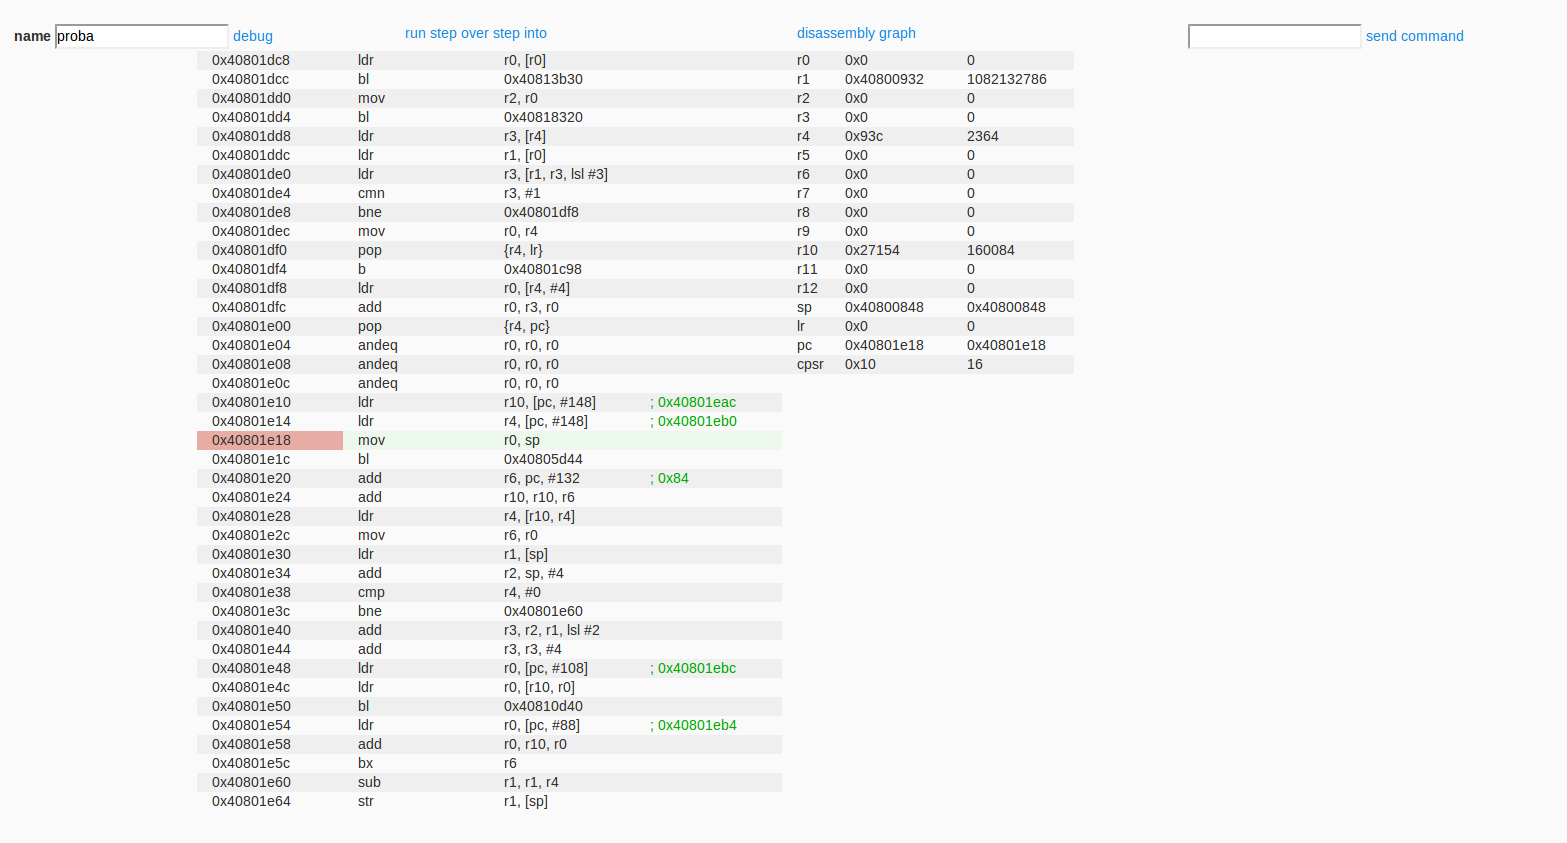
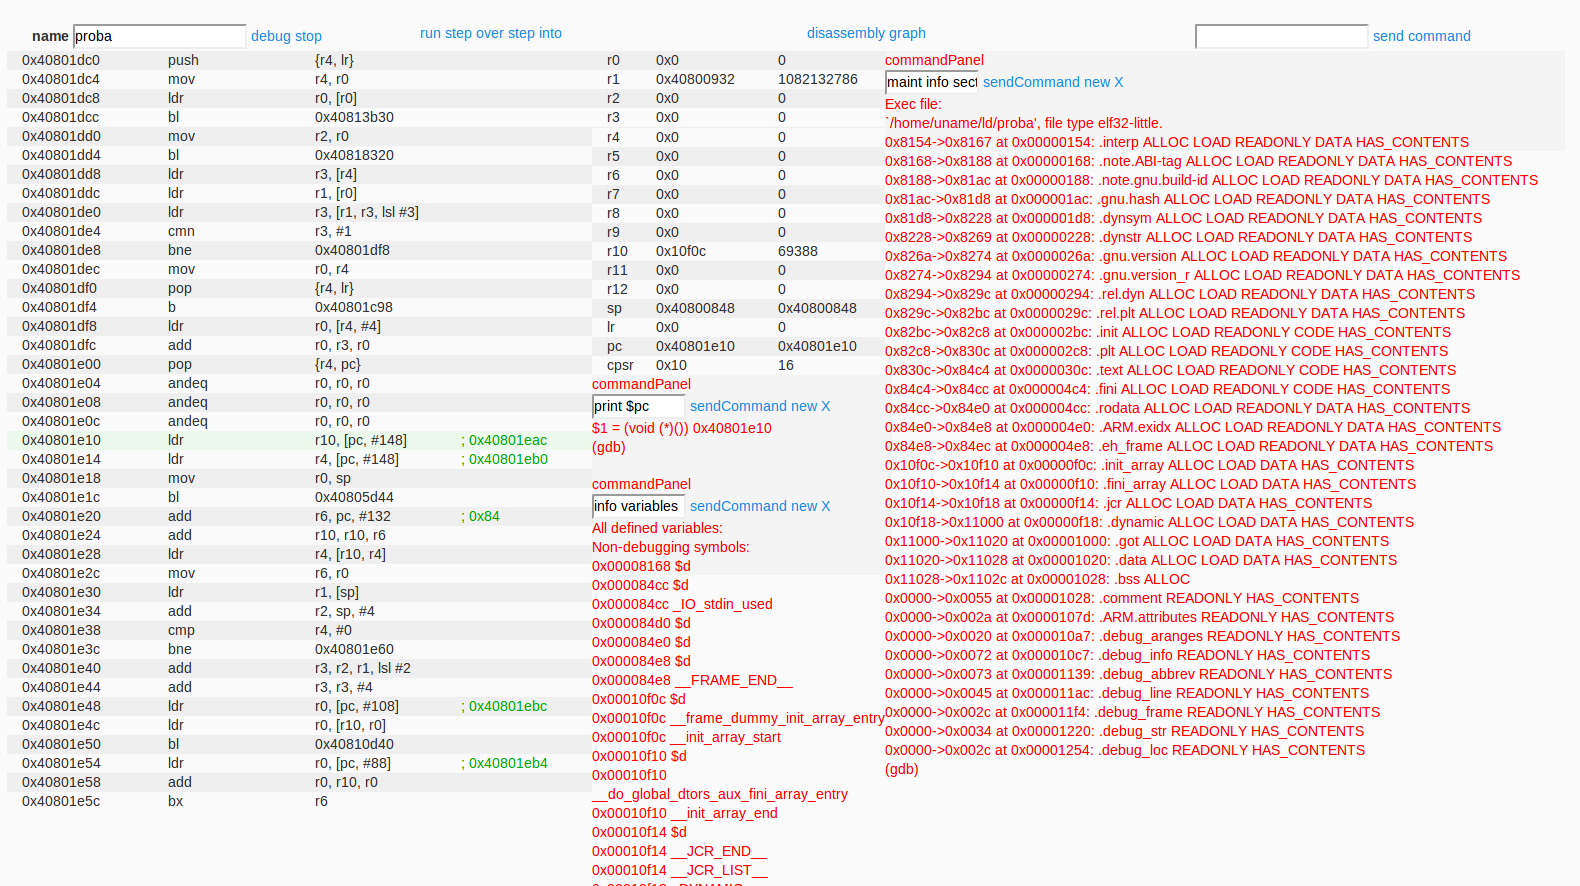
command panels

diff --git a/app/scripts/controllers/main.js b/app/scripts/controllers/main.js
@@ -21,278 +21,6 @@ function linkify( selector ) {
 }
 
 var socket;
-angular.module('ldApp').directive('draggable', function() {
-  var ddo = {
-    link: function(scope,iElement,iAttrs) {
-      $(iElement).draggable({
-        snap:true,
-        grid:[20,20]
-      });
-
-    }
-  };
-  return ddo;
-});
-angular.module('ldApp').directive('resizable', function() {
-  var ddo = {
-    link: function(scope,iElement,iAttrs) {
-      $(iElement).resizable({
-        
-        grid:[20,20]
-      });
-
-    }
-  };
-  return ddo;
-});
-
-angular.module('ldApp').factory('Data',function(){
-  //gdb service
-  var obj={
-    data:[],
-    sharedData:{
-      result:[],
-      resultRaw:[],
-      registers:'',
-      breakpoints:[]
-    },
-    sock:socket
-  };
-
-  obj.callbackQueue=[];
-
-  function dissasemblyCallback(){
-    obj.sharedData.dissasembly= obj.sharedData.result.slice(0,-1);
-    var b = [];
-    b.push([]);
-    var basicBlocks=[];
-    basicBlocks.push([]);
-
-    var disasArr = [];
-    var disasObjArr = [];
-    //bbBoundaryArr.push({from:0,to:0});
-    var boundaries=[];
-    var branchPreviousInst=false;
-
-    var branchArray=[];
-    _.each(obj.sharedData.dissasembly,function(value){
-      //detects disassembly line with => in it
-      var disasLineCurrent=/^\=\>\s*(.*):\s+(\w+)([^;]*)(;(.*))?$/;
-      //detects line from gdb output
-      var disasLine=/^\s*(.*):\s+(\w+)([^;]*)(;(.*))?$/;
-
-      var splitedInstruction;
-      var typeOfReg ;
-      var instObj ;
-      if(value.match(disasLineCurrent)){
-        splitedInstruction =  value.split(disasLineCurrent);
-        typeOfReg=1;
-        instObj ={
-          current:true,
-          address: splitedInstruction[1],
-          opcode:  splitedInstruction[2],
-          operands:splitedInstruction[3],
-          comment: splitedInstruction[4],
-        };
-      }else if(value.match(disasLine)){
-        splitedInstruction =  value.split(disasLine);
-        typeOfReg=2;
-        instObj ={
-          current:false,
-          address: splitedInstruction[1],
-          opcode:  splitedInstruction[2],
-          operands:splitedInstruction[3],
-          comment: splitedInstruction[4],
-          uppperBoundary:false,//true if it is upper boundary of basic block
-          downBoundary:false,//bottom boundary
-        };
-      }
-
-      if(splitedInstruction){
-        if (branchPreviousInst){
-          instObj.uppperBoundary=true;
-          boundaries.push(instObj);
-          branchPreviousInst=false;
-        }
-        if(splitedInstruction[2].match(/^b.*/)){
-          branchPreviousInst=true;
-          instObj.bottomBoundary=true;
-          boundaries.push(instObj);
-          branchArray.push(instObj);
-        }else{
-          if(boundaries.length===0){
-            instObj.uppperBoundary=true;
-            boundaries.push(instObj);
-          }
-        }
-        disasArr.push(splitedInstruction);
-        disasObjArr.push(instObj);
-
-      }else{
-
-      }
-
-
-    });
-
-
-    obj.sharedData.disasArr=disasObjArr;
-
-    //find instructions that are jumped on and put it in boundaries
-    _.each(branchArray,function(value){
-      var elem = _.findWhere(disasObjArr,{'address':value.operands.substring(1)});
-      if(elem){
-        var indexDest = _.indexOf(boundaries,elem);
-        if(indexDest===-1){
-          elem.up=true;
-          boundaries.push(elem);
-        }
-      }
-
-    });
-    var boundariesSorted=_.sortBy(boundaries,'address');
-    var boundaryArrC=0;
-    _.each(disasObjArr,function(value){
-      if(value===boundariesSorted[boundaryArrC]){
-        if(value.uppperBoundary===true){
-          basicBlocks.push([]);
-          basicBlocks[basicBlocks.length-1].push(value);
-
-        }
-        if(value.bottomBoundary===true){
-          basicBlocks[basicBlocks.length-1].push(value);
-        }
-        boundaryArrC+=1;
-
-      }else{
-        basicBlocks[basicBlocks.length-1].push(value);
-      }
-    });
-
-    obj.data=basicBlocks;
-
-  }
-  obj.getDissasembly = function getDissasembly () {
-
-    obj.callbackQueue.push(dissasemblyCallback);
-    socket.emit('command', { ptyPayload: 'disas $pc-80,$pc+80' });
-  };
-  obj.getRegisterInfo = function (){
-    obj.callbackQueue.push(function getRegInfoC(){
-      obj.sharedData.registers = obj.sharedData.result.slice(0,-1).map(function(value){
-        var s=value.split(/(\w+)\s*(\w+)\s*(\w+)/);
-        return {
-          name:s[1],
-          value1:s[2],
-          value2:s[3],
-
-        };
-      });
-    });
-
-    socket.emit('command', { ptyPayload: 'info registers' });
-  };
-  obj.setBreakpoint = function(address) {
-    obj.callbackQueue.push(function setBreakpointC() {});
-    
-    socket.emit('command',{
-      ptyPayload: 'break *' + address       
-    });
-    
-  };
-  obj.removeBreakpoint = function(address) {
-    obj.callbackQueue.push(function removeBreakpointC() {});
-    socket.emit('command',{
-      ptyPayload : 'clear *' + address
-    });
-  
-  };
-  obj.infoBreakpoints = function(){
-    obj.callbackQueue.push(function infoBreakpointsC() {
-      if(obj.sharedData.result[0].match(/^No.*/)){
-      return;
-      }
-      obj.sharedData.breakpoints = obj.sharedData.result.slice(1).map(function(value) {
-        var split = value.split(/\s*(\w+)\s*(\w+)\s*(\w+)\s*(\w+)\s*(\w*)\s*/);
-        return{
-          num:split[1],
-          type:split[2],
-          disp:split[3],
-          enb:split[4],
-          address:split[5],
-          what:split[6]
-        };
-      });
-      if(obj.sharedData.disasArr){
-        _.each(obj.sharedData.breakpoints,function(value){
-          var elem = _.findWhere(obj.sharedData.disasArr,{'address':value.address});
-          if(elem){
-            var indexDest = _.indexOf(obj.sharedData.disasArr,elem);
-            if(indexDest!==-1){
-              elem.hasBreakpoint=true;
-            }
-          }
-
-    });
-      
-      }
-    });
-    socket.emit('command',{
-      ptyPayload : 'info break'
-    });
-  };
-  obj.startCommand = function (name) {
-
-
-    obj.callbackQueue.push(function callbackForStart() {});
-    obj.callbackQueue.push(function callbackForArchSet() {});
-    obj.callbackQueue.push(function callbackForTarget() {});
-    socket.emit('start', { name: name });
-    socket.emit('command', { ptyPayload: 'set arch arm' });
-    socket.emit('command', { ptyPayload: 'target remote :12345' });
-    obj.getDissasembly();
-    obj.getRegisterInfo();
-    obj.infoBreakpoints();
-    
-  };
-  obj.sock=socket = io.connect('http://localhost:807');
-
-  socket.on('news', function (data) {
-    console.log(data);
-    var dataSplited = data.data.split('\n') ;
-    obj.sharedData.resultRaw = obj.sharedData.resultRaw.concat(dataSplited);
-    obj.sharedData.result=obj.sharedData.resultRaw;
-    var last = obj.sharedData.resultRaw[obj.sharedData.resultRaw.length-1];
-    if(last ==='(gdb) '){
-      var callback = obj.callbackQueue.shift();
-      if(callback){
-        callback();
-      }
-      obj.sharedData.resultRaw=[];
-
-    }
-    if('scope' in obj){
-      obj.scope.$apply();
-    }
-  });
-
-  return obj;
-});
-
-angular.module('ldApp')
-  .controller('MainCtrl2', function ($scope,$http,Data) {
-    $scope.sharedData=Data.sharedData;
-    $scope.toggleBreakpoint = function(address,thing) {
-      thing.hasBreakpoint = thing.hasBreakpoint?false:true;
-      if(thing.hasBreakpoint){
-        Data.setBreakpoint(address);
-      }else{
-        Date.removeBreakpoint(address);
-      }
-      
-    };
-
-    });
 angular.module('ldApp')
   .controller('MainCtrl', function ($scope,$http,Data) {
 

diff --git a/app/index.html b/app/index.html
@@ -101,6 +101,9 @@
         <script src="scripts/app.js"></script>
         <script src="scripts/controllers/main.js"></script>
         <script src="scripts/controllers/Ch.js"></script>
+        <script src="scripts/controllers/main2.js"></script>
+        <script src="scripts/controllers/data.js"></script>
+        <script src="scripts/directives/customDirectives.js"></script>
          <!-- endbuild -->
          <!-- livereload script -->
 

diff --git a/app/views/main.html b/app/views/main.html
@@ -42,6 +42,7 @@
 
     </div>
   </div>
+  <div commandWind draggable resizable ></div>
   <div id="commandResult" draggable resizable>
       <div id="crrow" ng-repeat="row in sharedData.commandResult">
         {{row}}
